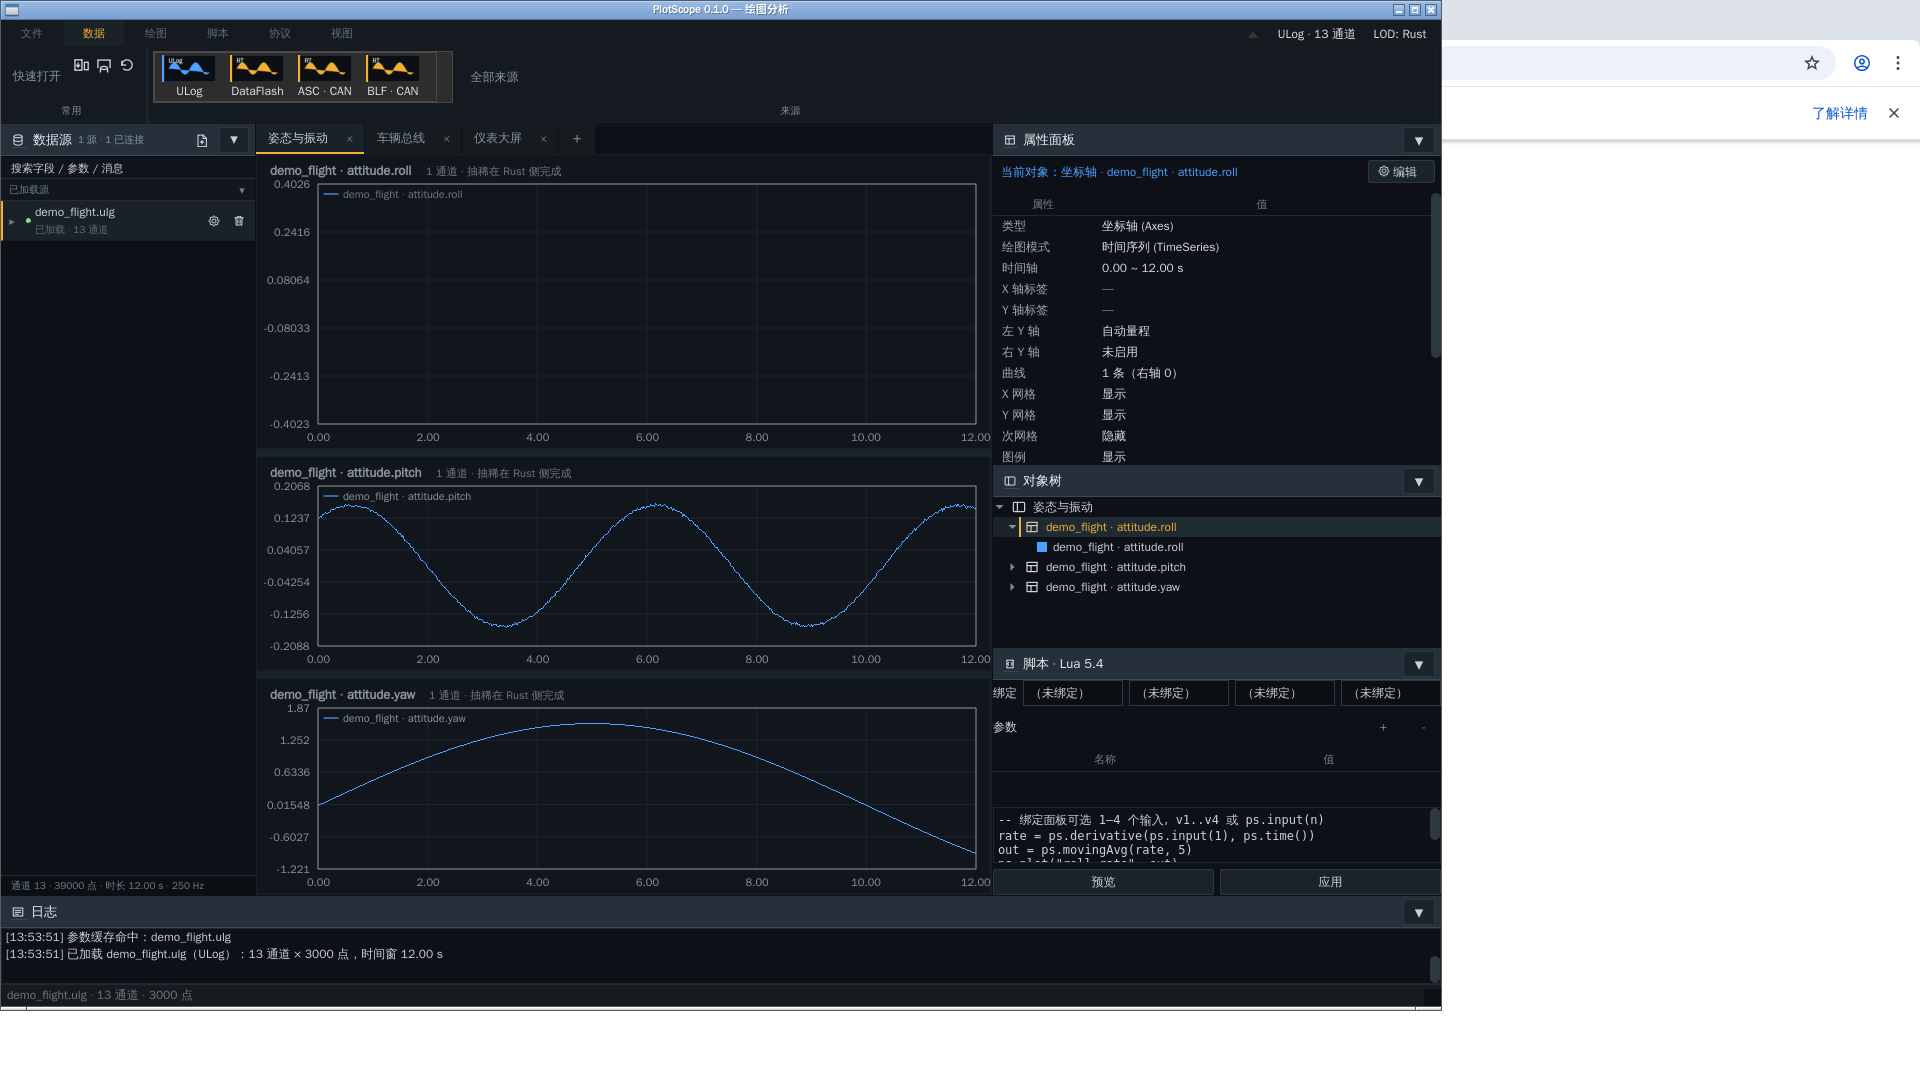
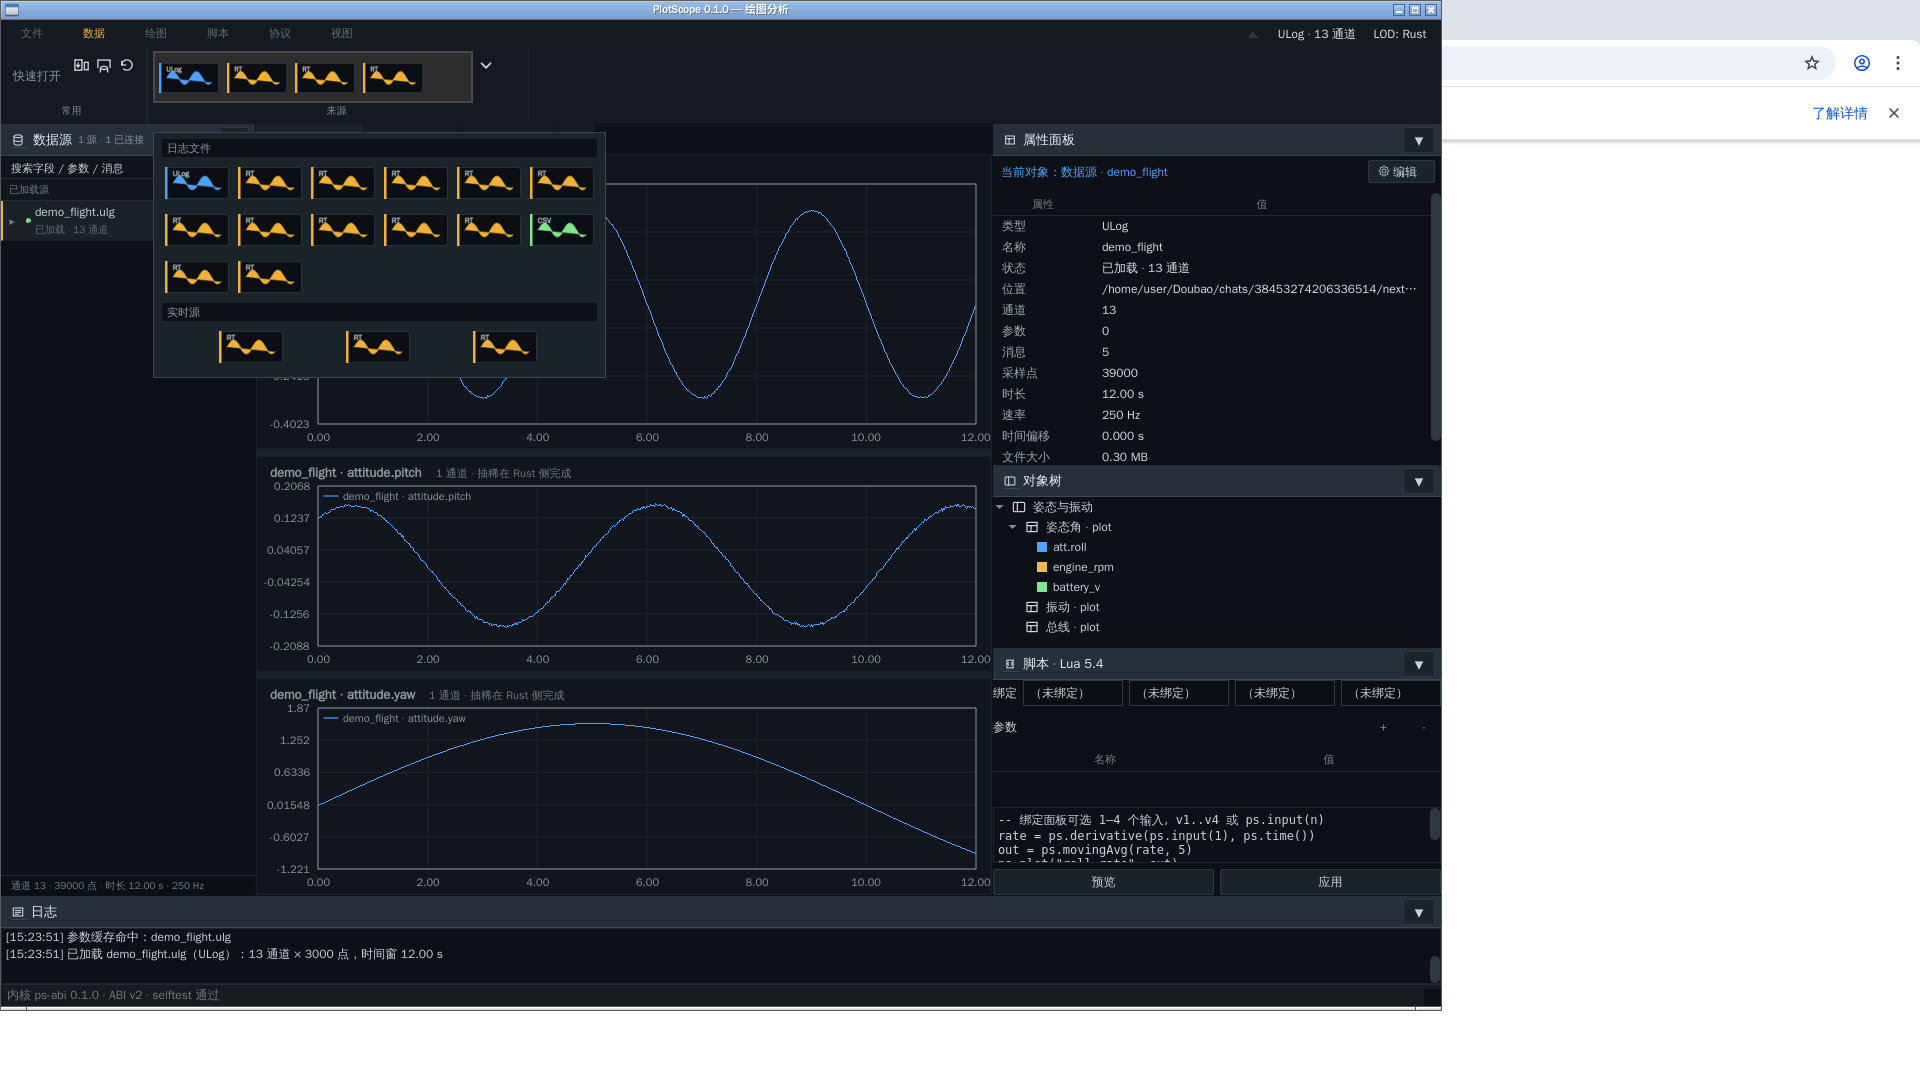
feat(ui): 数据源改为单行图示，下拉分组网格

diff --git a/src/app/shell/MainWindow.cpp b/src/app/shell/MainWindow.cpp
@@ -970,13 +970,13 @@ public:
         auto *lab = new QLabel(title, this);
         lab->setStyleSheet(QStringLiteral("color:#8b949e;font-size:11px;padding:2px 3px;"));
         m_root->addWidget(lab);
-        auto *row = new QHBoxLayout;
-        row->setContentsMargins(0, 0, 0, 0);
-        row->setSpacing(3);
-        for (QAction *a : acts)
+        auto *grid = new QGridLayout;
+        grid->setContentsMargins(0, 0, 0, 0);
+        grid->setSpacing(3);
+        for (int i = 0; i < acts.size(); ++i)
         {
             auto *b = new QToolButton(this);
-            b->setDefaultAction(a);
+            b->setDefaultAction(acts.at(i));
             b->setToolButtonStyle(Qt::ToolButtonIconOnly);
             b->setAutoRaise(true);
             b->setIconSize(QSize(64, 36));
@@ -984,11 +984,12 @@ public:
             b->setStyleSheet(QStringLiteral(
                 "QToolButton{background:transparent;border:0;padding:0;}"
                 "QToolButton:hover{background:#2d3841;}"));
-            connect(a, &QAction::triggered, this, &QWidget::hide);
-            row->addWidget(b);
+            connect(acts.at(i), &QAction::triggered, this, &QWidget::hide);
+            grid->addWidget(b, i / 6, i % 6);
         }
-        row->addStretch();
-        m_root->addLayout(row);
+        for (int c = 0; c < 6; ++c)
+            grid->setColumnStretch(c, 0);
+        m_root->addLayout(grid);
     }
 
 private:
@@ -1440,11 +1441,11 @@ QWidget *MainWindow::createRibbon()
         auto styleGroup = [](SARibbonGalleryGroup *g) {
             if (!g)
                 return;
-            g->setGalleryGroupStyle(SARibbonGalleryGroup::IconWithText);
-            g->setDisplayRow(SARibbonGalleryGroup::DisplayTwoRow);
-            g->setIconSize(QSize(52, 26));
-            g->setGridMinimumWidth(60);
-            g->setGridMaximumWidth(76);
+            g->setGalleryGroupStyle(SARibbonGalleryGroup::IconOnly);
+            g->setDisplayRow(SARibbonGalleryGroup::DisplayOneRow);
+            g->setIconSize(QSize(64, 36));
+            g->setGridMinimumWidth(68);
+            g->setGridMaximumWidth(74);
         };
         SARibbonGalleryGroup *firstGroup = nullptr;
         if (!fileActs.isEmpty())
@@ -1460,14 +1461,27 @@ QWidget *MainWindow::createRibbon()
                 firstGroup = g;
         }
         srcGallery->setSingleRowMode(true);
-        srcGallery->setMinimumWidth(190);
-        srcGallery->setMaximumWidth(220);
+        srcGallery->setMinimumWidth(280);
+        srcGallery->setMaximumWidth(320);
+        if (auto *more = srcGallery->findChild<QToolButton *>(QStringLiteral("SARibbonGalleryButtonMore")))
+            more->hide();
         if (firstGroup)
             srcGallery->setCurrentViewGroup(firstGroup);
-        addSmall(pSrc, QStringLiteral("\u25be"), [srcGallery] {
-            srcGallery->showMoreDetail();
-            if (auto *vp = srcGallery->findChild<SARibbonGalleryViewport *>())
-                vp->resize(vp->width(), std::max(vp->heightHintForWidth(vp->width()), 300));
+        pSrc->setMaximumWidth(380);
+        if (auto *t = pSrc->titleLabel())
+            t->setAlignment(Qt::AlignLeft | Qt::AlignVCenter);
+        auto *srcMenu = new PlotMenuPopup(this);
+        if (!fileActs.isEmpty())
+            srcMenu->addGroup(QStringLiteral("日志文件"), fileActs);
+        if (!streamActs.isEmpty())
+            srcMenu->addGroup(QStringLiteral("实时源"), streamActs);
+        addSmall(pSrc, QStringLiteral("\u25be"), [this, ribbon, srcGallery, srcMenu] {
+            srcMenu->adjustSize();
+            const QPoint anchor = srcGallery->mapToGlobal(QPoint(0, 0));
+            const int y = ribbon->mapToGlobal(QPoint(0, ribbon->height())).y() + 8;
+            const int x = qBound(8, anchor.x(), screen()->availableGeometry().right() - srcMenu->width() - 8);
+            srcMenu->move(x, y);
+            srcMenu->show();
         }, this);
     }
 
